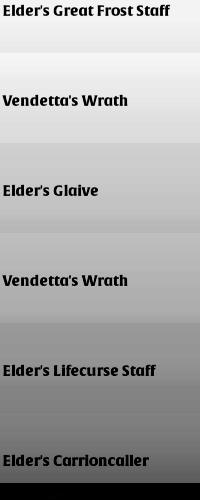
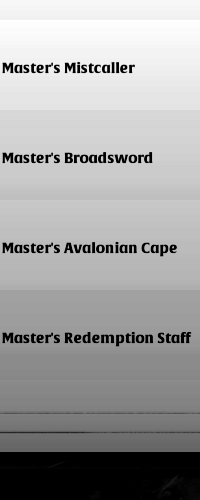
Changes applied

diff --git a/items_to_xlsx.py b/items_to_xlsx.py
@@ -1,103 +1,152 @@
 import openpyxl
-from openpyxl.styles import Alignment, Font
+from openpyxl.styles import Alignment, PatternFill
+import os
+import re
 
-# Paths for input .txt and output .xlsx files
-input_txt_file = "market_prices.txt"
-output_xlsx_file = "market_prices.xlsx"
+# File names
+output_file = "market_prices.xlsx"
+txt_file = "market_prices.txt"
 
-# Quality mapping
-quality_mapping = {
-    "0": "Normal",
-    "1": "Good",
-    "2": "Outstanding",
-    "3": "Excellent",
-    "4": "Masterpiece"
+# Cities and their column structure
+cities = ["Caerleon", "Lymhurst", "Martlock", "Thetford", "Fort Sterling", "Bridgewatch"]
+columns = ["Name", "Tier", "Enchantment", "Quality", "Price"]
+
+# Define colors for each city
+city_colors = {
+    "Caerleon": None,           # No color
+    "Lymhurst": "00FF00",       # Green
+    "Martlock": "0000FF",       # Blue
+    "Thetford": "800080",       # Purple
+    "Fort Sterling": "C0C0C0",  # Grey
+    "Bridgewatch": "FFA500",    # Orange
 }
 
-# Function to read and process the .txt file
-def read_and_process_txt():
-    items = []
-    prices = []
-    details = []
+# Cities and their corresponding codes
+city_codes = {
+    "C": "Caerleon",
+    "L": "Lymhurst",
+    "M": "Martlock",
+    "T": "Thetford",
+    "F": "Fort Sterling",
+    "B": "Bridgewatch"
+}
 
-    with open(input_txt_file, "r") as file:
-        lines = file.readlines()
+def create_xlsx_schema():
+    # Create a new workbook
+    workbook = openpyxl.Workbook()
+    sheet = workbook.active
+    sheet.title = "Market Data"
 
-    item_block = []
-    price_block = []
-    detail_dict = {"Tier": "", "Enchantment": "", "Quality": ""}
+    # Start writing headers
+    start_col = 1
+    for city in cities:
+        # Write city name merged over the columns
+        end_col = start_col + len(columns) - 1
+        sheet.merge_cells(start_row=1, start_column=start_col, end_row=1, end_column=end_col)
+        cell = sheet.cell(row=1, column=start_col)
+        cell.value = city
+        cell.alignment = Alignment(horizontal="center", vertical="center")
 
-    for line in lines:
-        line = line.strip()
+        # Apply background color to the city header
+        city_color = city_colors.get(city)
+        if city_color:
+            fill = PatternFill(start_color=city_color, end_color=city_color, fill_type="solid")
+            cell.fill = fill
 
-        if line.startswith("Item Details"):  # Extract tier, enchantment, and quality
-            detail_line = line.replace("Item Details - ", "").split(", ")
-            for detail in detail_line:
-                key, value = detail.split(": ")
-                if key == "Quality":
-                    value = quality_mapping.get(value, value)  # Map quality number to text
-                detail_dict[key] = value
-        elif "'" in line or line.isalpha():  # Extract item names
-            item_block.append(line.strip("'"))
-        elif line.replace(",", "").isdigit():  # Extract prices
-            price_block.append(line)
+        # Write column headers
+        for i, col in enumerate(columns):
+            sheet.cell(row=2, column=start_col + i, value=col)
 
-        # Once 4 items and prices are collected, associate them with details
-        if len(item_block) == 4 and len(price_block) == 4:
-            items.extend(item_block)
-            prices.extend(price_block)
-            details.extend([detail_dict.copy()] * 4)  # Duplicate details for all 4 items
-            item_block, price_block = [], []  # Reset for next block
-
-    return items, prices, details
-
-# Function to append or update data in the Excel sheet
-def save_to_xlsx(items, prices, details):
-    # Load workbook if it exists; otherwise, create a new one
-    try:
-        wb = openpyxl.load_workbook(output_xlsx_file)
-    except FileNotFoundError:
-        wb = openpyxl.Workbook()
-
-    ws = wb.active
-    ws.title = "Market Prices"
-
-    # Helper function to find rows with matching headers
-    def find_header_row(header):
-        for row in ws.iter_rows():
-            if row[0].value == header:
-                return row[0].row
-        return None
-
-    for item, price, detail in zip(items, prices, details):
-        # Generate header
-        header = f"Tier {detail['Tier']}, Enchantment {detail['Enchantment']}, Quality {detail['Quality']}"
-        header_row = find_header_row(header)
-
-        if header_row:  # Header exists, check for matching item
-            item_found = False
-            for row in ws.iter_rows(min_row=header_row + 1, max_col=2):
-                if row[0].value == item:  # Update price if item matches
-                    row[1].value = price
-                    item_found = True
-                    break
-
-            if not item_found:  # If item not found, append it under the header
-                ws.append([item, price])
-        else:  # Header doesn't exist, append header and new items
-            ws.append([header])  # Append header
-            ws[f"A{ws.max_row}"].font = Font(bold=True)  # Make header bold
-            ws.append([item, price])  # Append item and price
+        # Move to the next city block
+        start_col = end_col + 2
 
     # Save the workbook
-    wb.save(output_xlsx_file)
-    print(f"Data saved to {output_xlsx_file}")
+    workbook.save(output_file)
+    print(f"File '{output_file}' created successfully.")
 
-# Main function to execute the process
+# Function to parse the text file and extract details
+def parse_txt_file():
+    with open(txt_file, "r") as file:
+        lines = file.readlines()
+
+    # Variable to store parsed data
+    item_data = []
+
+    i = 0
+    while i < len(lines):
+        # Search for the item details line (e.g., "Item Details - Tier: 6, Enchantment: 1, Quality: 0, City: L")
+        item_details = re.match(r"Item Details - Tier: (\d), Enchantment: (\d), Quality: (\d), City: (\w)", lines[i].strip())
+        if item_details:
+            # Extract tier, enchantment, quality, and city
+            tier, enchantment, quality, city_code = item_details.groups()
+            city_name = city_codes.get(city_code, "Unknown City")
+
+            # Move to the next line for item names and prices
+            i += 1
+            items = []
+            prices = []
+
+            while i < len(lines) and not lines[i].startswith("Item Details"):
+                # Collect item names
+                if lines[i].strip() and not re.match(r"^\d{1,3}(?:,\d{3})*$", lines[i].strip()):
+                    items.append(lines[i].strip())
+                elif re.match(r"^\d{1,3}(?:,\d{3})*$", lines[i].strip()):
+                    # Collect corresponding prices
+                    price = int(lines[i].strip().replace(",", ""))
+                    prices.append(price)
+                i += 1
+
+            # Ensure that items and prices are in pairs, and append them
+            for item, price in zip(items, prices):
+                item_data.append((tier, enchantment, quality, city_name, item, price))
+        else:
+            i += 1
+
+    return item_data
+
+# Function to append parsed data to the Excel sheet
+def append_to_excel(item_data):
+    # Load the existing workbook
+    workbook = openpyxl.load_workbook(output_file)
+    sheet = workbook.active
+
+    # Start column index
+    start_col = 1
+    for city in city_codes.values():
+        end_col = start_col + 4  # 5 columns per city (Name, Tier, Enchantment, Quality, Price)
+
+        # Find the first empty row for the city
+        first_empty_row = sheet.max_row + 1
+        for row in range(2, sheet.max_row + 1):
+            if sheet.cell(row=row, column=start_col).value is None:
+                first_empty_row = row
+                break
+
+        # Append the data for each city
+        for row in item_data:
+            if row[3] == city:  # Check if the city matches
+                sheet.cell(row=first_empty_row, column=start_col, value=row[4])  # Item Name
+                sheet.cell(row=first_empty_row, column=start_col + 1, value=row[0])  # Tier
+                sheet.cell(row=first_empty_row, column=start_col + 2, value=row[1])  # Enchantment
+                sheet.cell(row=first_empty_row, column=start_col + 3, value=row[2])  # Quality
+                sheet.cell(row=first_empty_row, column=start_col + 4, value=row[5])  # Price
+                first_empty_row += 1  # Move to the next row for the next item
+
+        start_col = end_col + 2  # Move to the next city block
+
+    # Save the workbook after appending data
+    workbook.save(output_file)
+    print(f"Data successfully appended to '{output_file}'.")
+
+# Main function to process the data
 def main():
-    items, prices, details = read_and_process_txt()
-    save_to_xlsx(items, prices, details)
+    # Check if the file exists
+    if not os.path.exists(output_file):
+        create_xlsx_schema()  # Create the schema if the file doesn't exist
+    
+    item_data = parse_txt_file()  # Parse the txt file
+    append_to_excel(item_data)    # Append parsed data to Excel sheet
 
 # Run the program
 if __name__ == "__main__":
-    main()
+    main()  # Process and append the data

diff --git a/screen_reader.py b/screen_reader.py
@@ -22,30 +22,43 @@ print(f"Screen size: {screen_width}x{screen_height}")
 open(output_txt_file, "w").write("") 
 
 # Function to get user input for tier, enchantment, and quality
+# Function to get user input for tier, enchantment, quality, and city
 def get_user_input():
     print("\n--- Item Selection ---")
+    
+    # Tier input
     tier = input("Enter item tier (4-8): ")
     while tier not in ["4", "5", "6", "7", "8"]:
         print("Invalid input. Please enter a number between 4 and 8.")
         tier = input("Enter item tier (4-8): ")
 
+    # Enchantment input
     enchantment = input("Enter enchantment level (0-4): ")
     while enchantment not in ["0", "1", "2", "3", "4"]:
         print("Invalid input. Please enter a number between 0 and 4.")
         enchantment = input("Enter enchantment level (0-4): ")
 
+    # Quality input
     quality = input("Enter item quality (0-4): ")
     while quality not in ["0", "1", "2", "3", "4"]:
-        print("Invalid input. Please enter a number between 0 and 5.")
+        print("Invalid input. Please enter a number between 0 and 4.")
         quality = input("Enter item quality (0-4): ")
 
-    print(f"\nSelected Tier: {tier}, Enchantment: {enchantment}, Quality: {quality}")
+    # City selection input
+    print("\nSelect city (L for Lymhurst, M for Martlock, etc.): ")
+    city = input("Enter city code: ")
+    while city not in ["L", "M", "F", "B", "C", "T"]:  # Add more city codes as needed
+        print("Invalid input. Please enter a valid city code.")
+        city = input("Enter city code (L, M, F, B, C, T): ")
+
+    print(f"\nSelected Tier: {tier}, Enchantment: {enchantment}, Quality: {quality}, City: {city}")
 
     # Append the user input to the output file
     with open(output_txt_file, "a") as file:
-        file.write(f"Item Details - Tier: {tier}, Enchantment: {enchantment}, Quality: {quality}\n")
+        file.write(f"Item Details - Tier: {tier}, Enchantment: {enchantment}, Quality: {quality}, City: {city}\n")
 
-    return tier, enchantment, quality
+    return tier, enchantment, quality, city
+
 
 # Function to capture market prices using Tesseract
 def capture_market_prices():
@@ -130,7 +143,7 @@ def listen_for_keys():
 # Main function
 def main():
     # Get tier, enchantment, and quality from user
-    tier, enchantment, quality = get_user_input()
+    tier, enchantment, quality, city  = get_user_input()
 
     print("\nPress 'Alt+T' to start/stop market price reading.")
     print("Press 'Alt+Q' to quit the application.")
